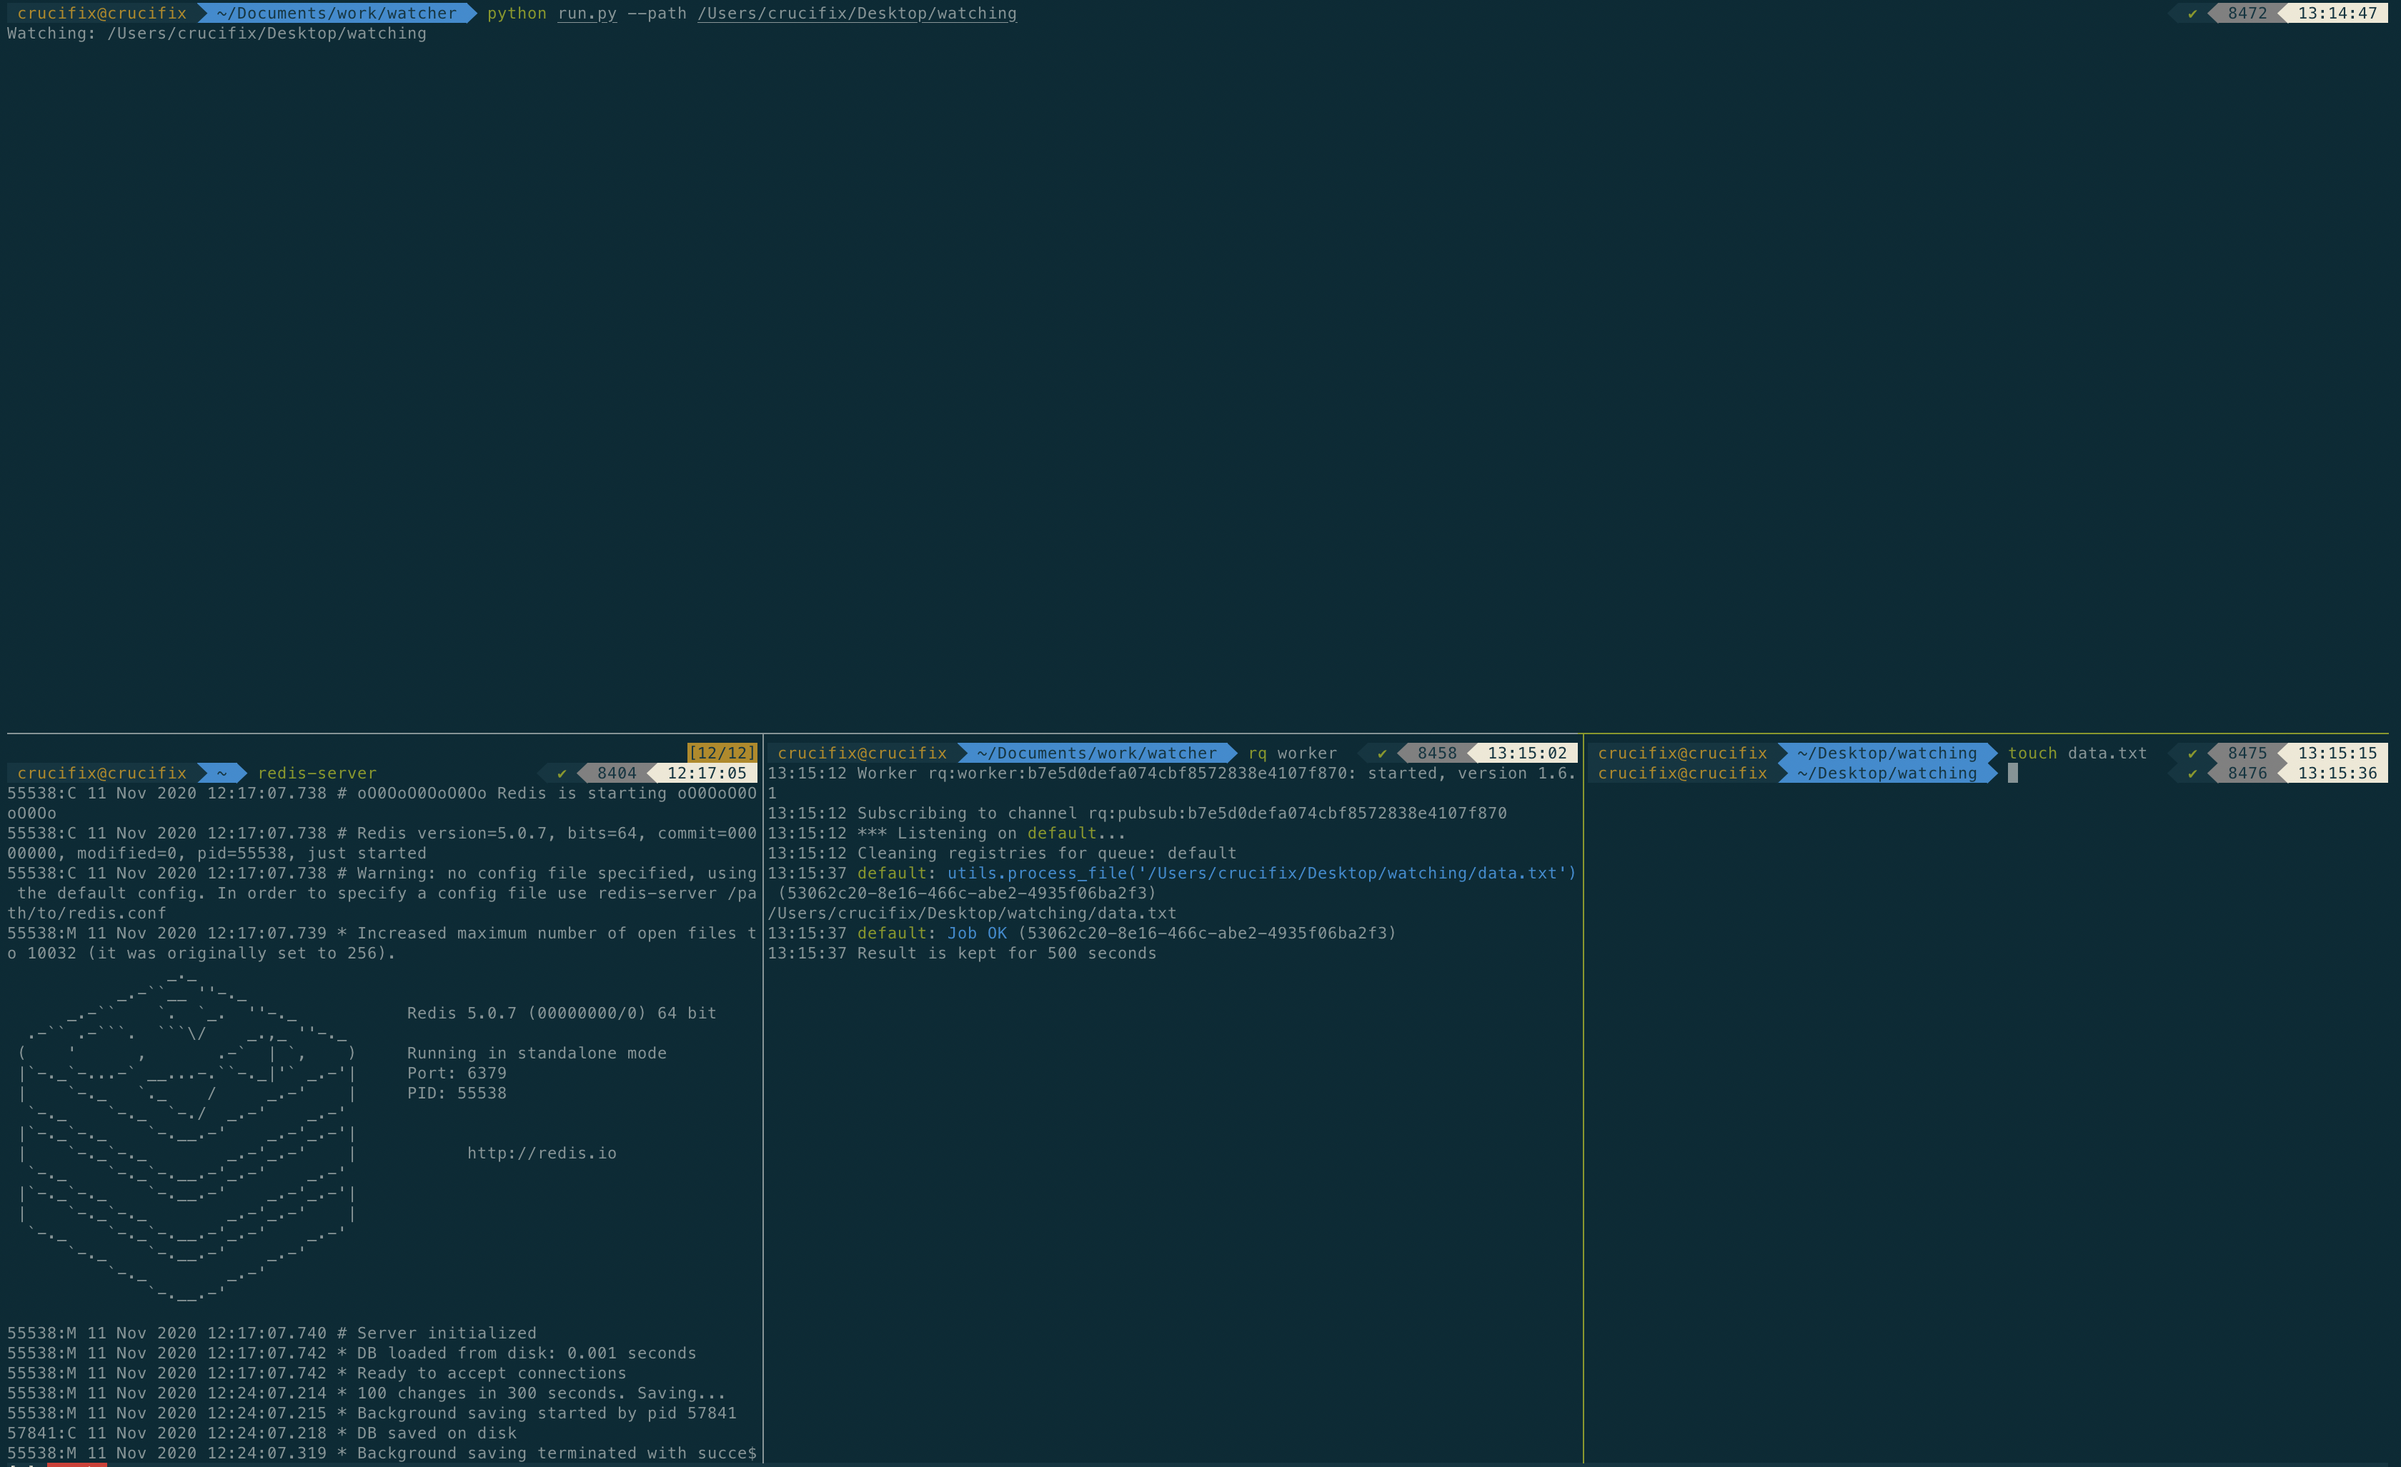
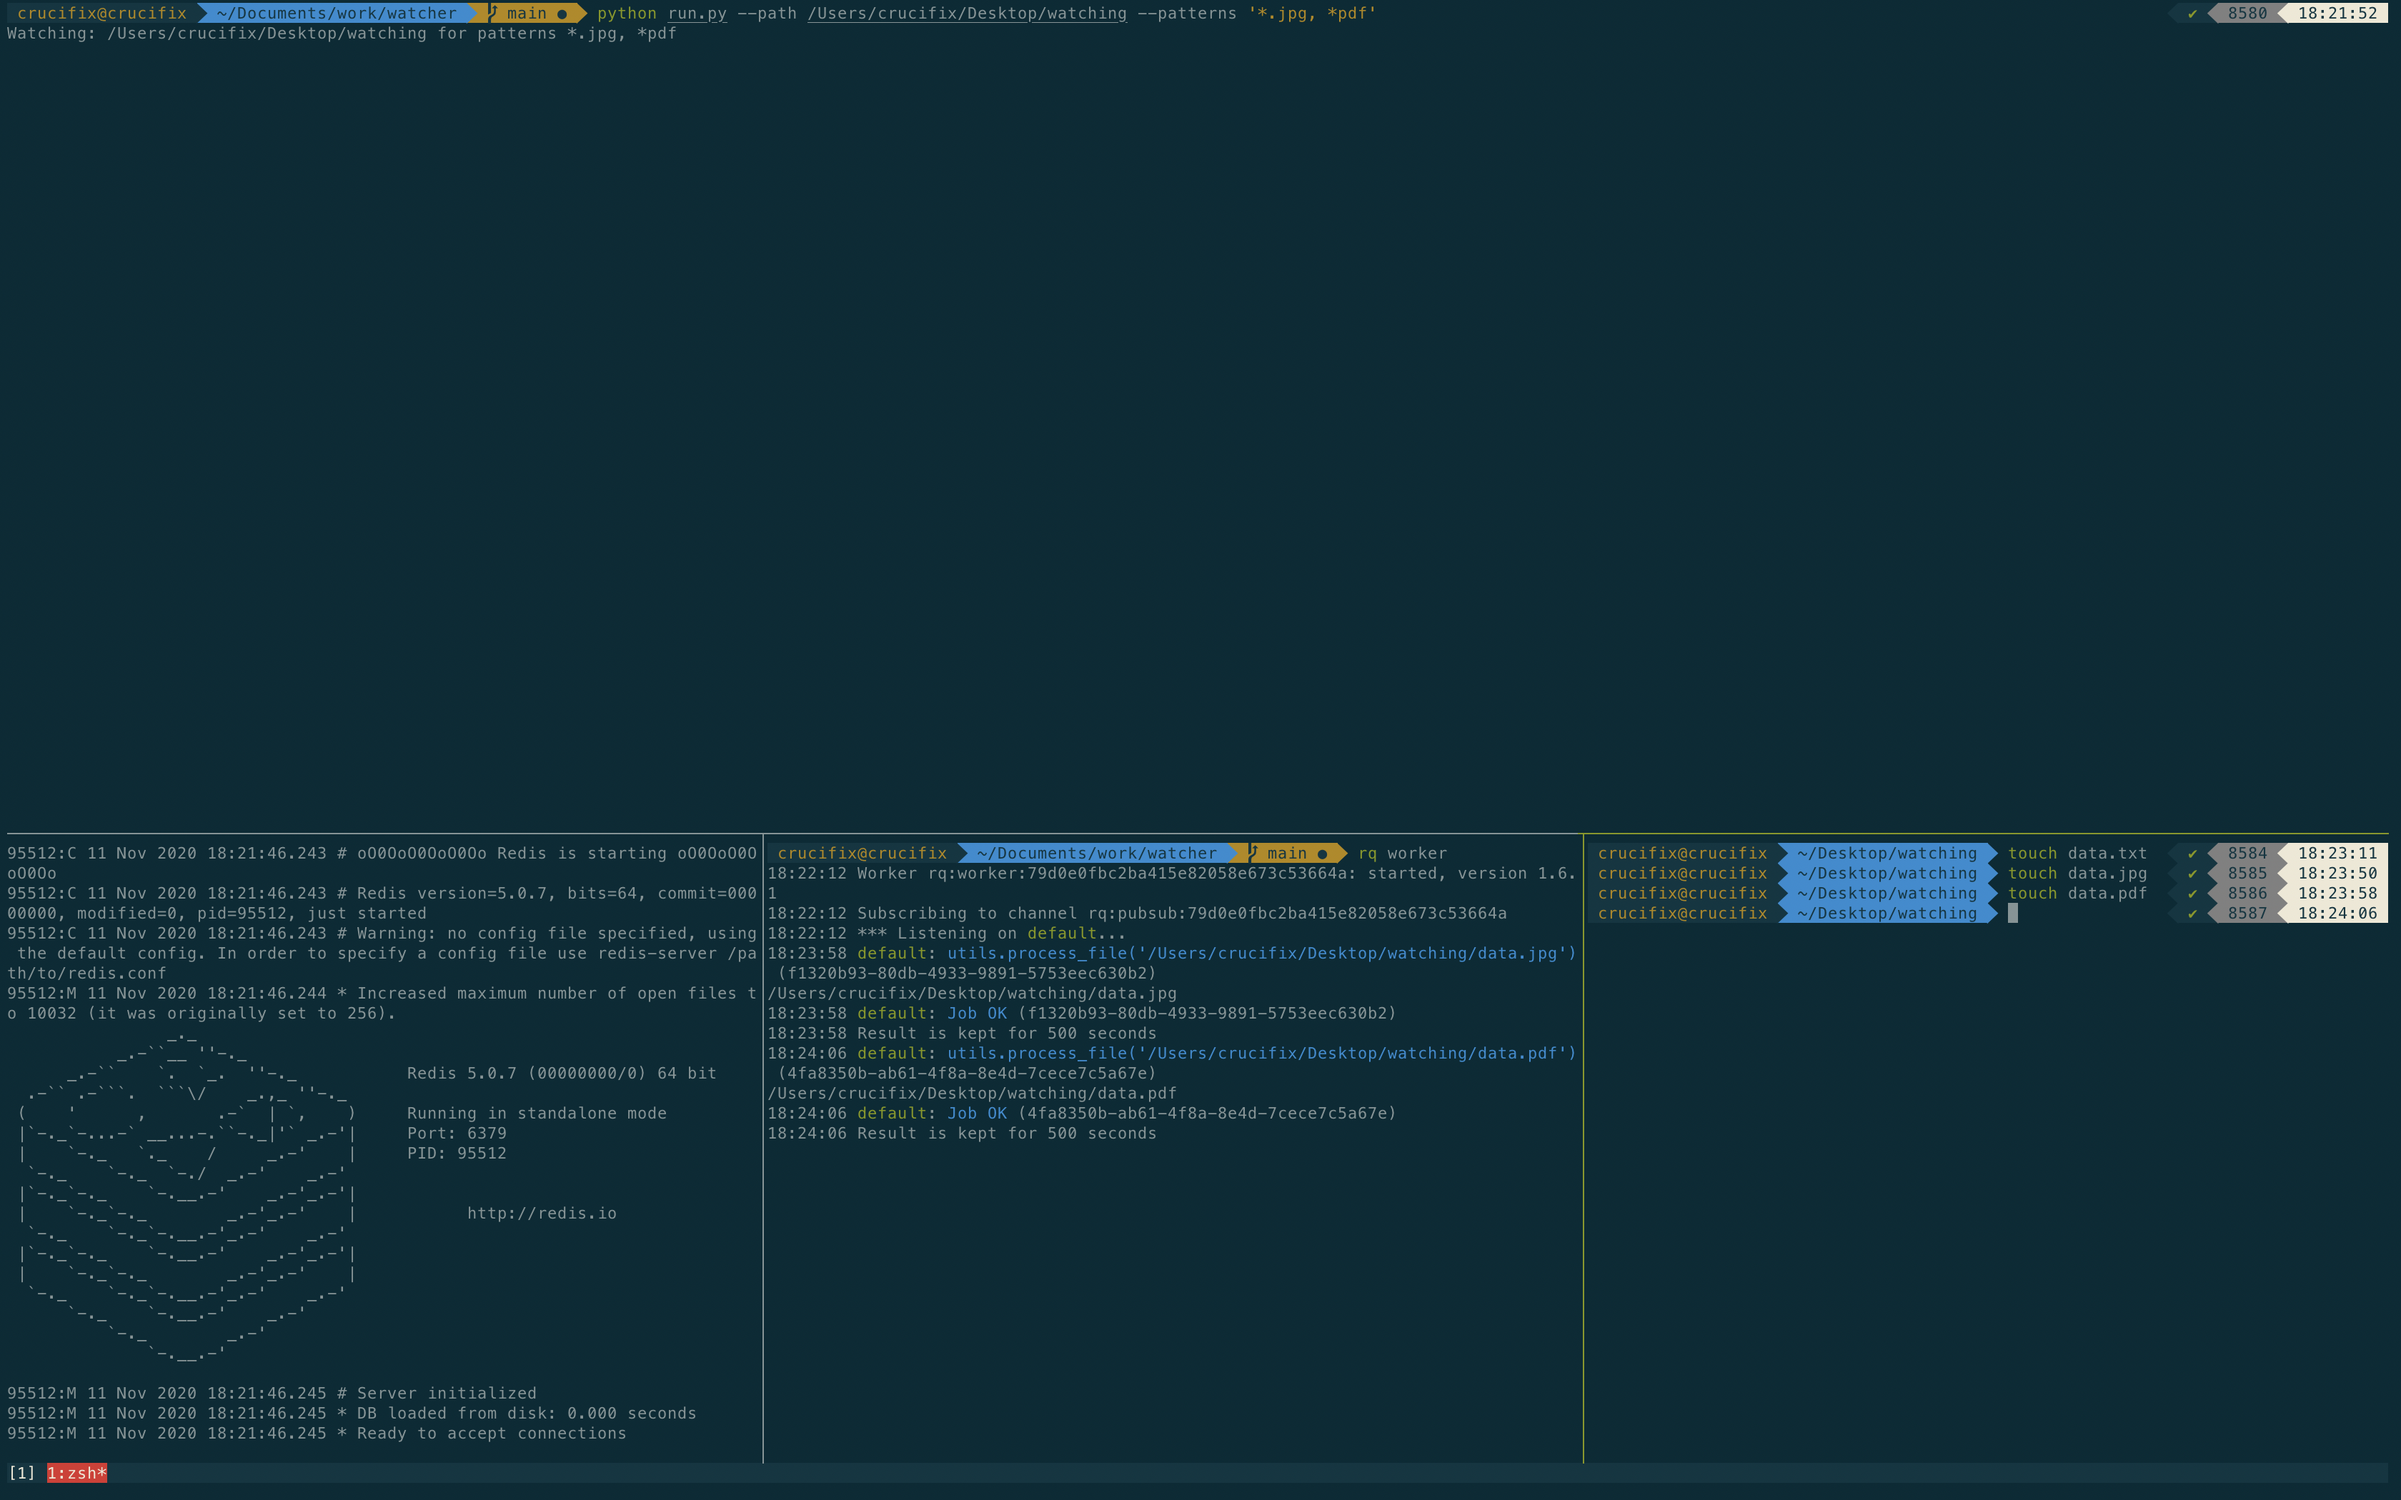
Added patterns to the code base.

diff --git a/run.py b/run.py
@@ -6,10 +6,12 @@ import click
 from watcher import FileWatcher
 
 @click.command()
-@click.option('--path', default=".", help='Folder path.')
-def main(path):
-    print(f'Watching: {path}')
-    FileWatcher(path).run()
+@click.option("--path", default=".", help="Folder path.")
+@click.option("--patterns", default="*", help=r"File patterns to watch e.g '*.jpg, *.pdf' or '*' for everything.")
+def main(path, patterns):
+    print(f"Watching: {path} for patterns {patterns}")
+    patterns = [pattern.strip() for pattern in patterns.split(",")]
+    FileWatcher(path, patterns).run()
 
 if __name__ == "__main__":
     main()

diff --git a/watcher.py b/watcher.py
@@ -9,9 +9,9 @@ from handler import FileEventHandler
 
 class FileWatcher:
 
-    def __init__(self, src_path):
+    def __init__(self, src_path, patterns):
         self._src_path = src_path
-        self._handler = FileEventHandler()
+        self._handler = FileEventHandler(patterns=patterns)
         self._observer = Observer()
 
     def run(self):

diff --git a/README.md b/README.md
@@ -13,7 +13,8 @@ A simple application that demonstates how to use Watchdog, RQ and Redis to autom
 ## How to use project
     - $ cd watcher
     - $ source venv/bin/activate
-    - $ python run.py --path path/of/folder/to/watch e.g  python run.py --path /Users/crucifix/Desktop/watching.
+    - $ python run.py --path path/of/folder/to/watch --patterns comma seperated list of patterns  e.g  python run.py --path /Users/crucifix/Desktop/watching --patterns '.jpg, .pdf'.
+      * Both the --path and --patterns are optional parameters and they default to '.' and '*' respectively. '.' for current path and '*' to watch every file.
 
     * Open another terminal and run the following commands.
     - $ cd watcher
